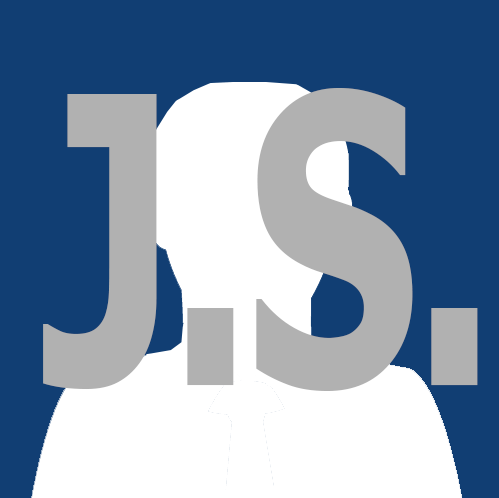
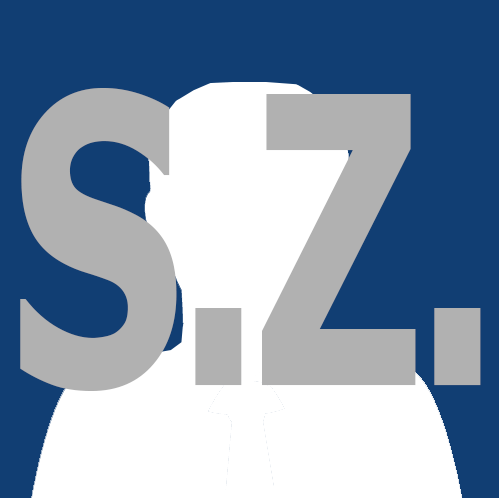
nearly nearly done metodike

diff --git a/students.html b/students.html
@@ -279,15 +279,11 @@
     <footer class="bottom">
       <br>
       <a class="oneLine" href="https://www.lu.lv/">LU</a>
-      <a class="oneLine"
-        href="https://www.lu.lv/par-mums/administracija/departamenti/studentu-servisu-departaments/">Studentu
-        serviss</a>
+      <a class="oneLine" href="https://www.lu.lv/par-mums/administracija/departamenti/studentu-servisu-departaments/">Studentu serviss</a>
       <a class="oneLine" href="https://estudijas.lu.lv/index.php?lang=lv_utf8">E-studijas</a>
       <a class="oneLine" href="https://luis.lu.lv/">LUIS</a>
       <a class="oneLine" href="https://webmails.lu.lv/">LU e-pasts</a>
-      <a class="oneLine"
-        href="https://www.lu.lv/par-mums/dokumenti/latvijas-universitates-ieksejas-kartibas-noteikumi-studejosajiem/">Iekšējās
-        kārtības noteikumi studējošiem</a>
+      <a class="oneLine" href="https://www.lu.lv/par-mums/dokumenti/latvijas-universitates-ieksejas-kartibas-noteikumi-studejosajiem/">Iekšējās kārtības noteikumi studējošiem</a>
     </footer>
     <br>
   </div>
@@ -303,15 +299,6 @@
       float: left;
       width: 20%;
       padding: 10px
-    }
-    .column-info {
-      float: left;
-      width: 100%;
-      padding: 10px
-    }
-    .column-info-2 {
-      float: left;
-      width: 50%;
     }
 
     .column-user:not(:first-child) {
@@ -409,22 +396,7 @@
   </div>
   <div class="modal5" id="mod">
     <div class="modal-content">
-      <span class="close-btn-5">&times;</span>
-      <div class="column-info">
-        <div class="column-info-2">
-          <p style="font-size: 30px; font-weight: bold;">Eksperimentālās metodes</p>
-          <p style="font-size: 20px; font-weight: bold; display: inline;">Auditorija:</p>
-          <p style="display: inline; margin-left: 5px;">320.t.</p>
-          <p>
-          <p style="font-size: 20px; font-weight: bold; display: inline;">Nodarbības laiks:</p>
-          <p style="display: inline; margin-left: 5px;">Trešdiena 14.30-16.00.</p>
-          <p style="font-size: 20px; font-weight: bold;">Apraksts</p>
-        </div>
-        <div class="column-info-2">
-          <p style="font-size: 150px; font-weight: bold; float: right; margin-right: 30%; height: 200%; border-radius:15%; border: 5px solid; background-color: lightskyblue; margin-top: -1%; margin-bottom: -100%;">EM</p>
-        </div>
-      </div>
-      <p style="line-height: 30px;">Specsemināra laikā studenti apgūs pamata eksperimentālās un korelatīvās metodes un
+      <p>Specsemināra laikā studenti apgūs pamata eksperimentālās un korelatīvās metodes un
         pētījuma dizainus, lai veiktu vienkāršu eksperimentu vai korelatīvu pētījumu (piem.,
         sekundāro datu apstrādi, automatizētu ikdienas datu analīzi, kā arī aptauju, novērojumu).
         Eksperimentiem mūsdienu datorzinātņu jomās ir plašs pielietojums, tādējādi

diff --git a/metodike.html b/metodike.html
@@ -73,8 +73,8 @@
                     <th></th>
                 </tr>
                 <tr>
-                    <td>Eksperimentālās metodes</td>
-                    <td>Prof. J. Šķilters</td>
+                    <td>Eksperimentālās metodes <a href="#">Apraksts</a></td>
+                    <td><img src="images/img_js.png" alt="J.S." width="50" height="50"><br>Prof. J. Šķilters</td>
                     <td>10</td>
                     <td>
                         <div class="box">
@@ -92,8 +92,8 @@
                     <td><button type="button" id="button-1" onclick="registerToCourse('1')">Reģistrēt estudijās</button></td>
                 </tr>
                 <tr>
-                    <td>“No produktu dizaina līdz lietotāja pieredzes dizainam”</td>
-                    <td>Asoc. prof. S. Zariņa</td>
+                    <td>“No produktu dizaina līdz lietotāja pieredzes dizainam” <a href="#">Apraksts</a></td>
+                    <td><img src="images/img_sz.png" alt="S.Z." width="50" height="50"><br>Asoc. prof. S. Zariņa</td>
                     <td>6</td>
                     <td>
                         <div class="box">
@@ -111,8 +111,8 @@
                     <td><button type="button" id="button-2" onclick="registerToCourse('2')">Reģistrēt estudijās</button></td>
                 </tr>
                 <tr>
-                    <td>No modernās līdz laikmetīgajai mākslai, no dizaina līdz tīmekļa dizainam</td>
-                    <td>Asoc. prof. S. Zariņa</td>
+                    <td>No modernās līdz laikmetīgajai mākslai, no dizaina līdz tīmekļa dizainam <a href="#">Apraksts</a></td>
+                    <td><img src="images/img_sz.png" alt="S.Z." width="50" height="50"><br>Asoc. prof. S. Zariņa</td>
                     <td>13</td>
                     <td id="audit3">
                         <div class="box">
@@ -312,6 +312,24 @@
             padding-bottom: 12px;
             background-color: #113e73;
             color: white;
+        }
+
+        td img
+        {
+            float:top;
+        }
+
+        /*anchor styling*/
+        td a {
+            background-color:  #0563AF;
+            color: white;
+            padding: 0.25em 0.5em;
+            text-decoration: none;
+            text-transform: uppercase;
+        }
+
+        td a:active {
+            background-color:  #113e73;
         }
     </style>
     <script>
